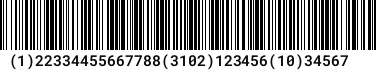
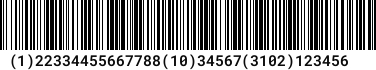
New constructor and parser.

Changed region(s): [[0.4096, 0.0, 0.7899, 0.7143], [0.8191, 0.0, 0.9654, 0.7143], [0.4388, 0.7714, 0.9362, 1.0]]

diff --git a/index.php b/index.php
@@ -22,20 +22,21 @@ require_once 'vendor/autoload.php';
 ?>
 <html>
     <body>
+        <div style="display: flex; flex-direction:column;">
         <h1>GTIN-14</h1>
         <?php
         $gtin = Gtin::create(45678);    // Item Reference
         echo $gtin->number;
-        echo "<img src='" . $gtin->getBarcodeSource() . "' />";
+        echo "<img src='" . $gtin->getBarcodeSource() . "' style='max-width:200px;' />";
         echo "<hr/>";
 
         $gtin = Gtin::create(45678, 123);    // Item Reference + Client Prefix
         echo $gtin->number;
-        echo "<img src='" . $gtin->getBarcodeSource() . "' />";
+        echo "<img src='" . $gtin->getBarcodeSource() . "' style='max-width:200px;' />";
         echo "<hr/>";
 
         $gtin->saveWithNumber('resources/gtin');
-        echo "<img src='resources/gtin.jpg' />";
+        echo "<img src='resources/gtin.jpg' style='max-width:200px;' />";
         echo "<hr/>";
         ?>
         <h2>Validation</h2>
@@ -49,11 +50,13 @@ require_once 'vendor/autoload.php';
         <?php
         var_dump(Gtin::validate(11230000456781));
         ?>
+        </div>
 
         <h1>GTIN-12 / UPC-A</h1>
         <?php
         $gtin12 = Gtin12::create(1, 61414);    // Item Reference + Client Prefix
         echo $gtin12->number;
+        echo "<br/>";
         echo "<img src='" . $gtin12->getBarcodeSource(1, 64) . "' />";
         echo "<hr/>";
 

diff --git a/src/Gs1Generator.php b/src/Gs1Generator.php
@@ -141,6 +141,12 @@ class Gs1Generator
             $gs1->serial = (int) $matches[2];
             $string = str_replace($matches[0], "", $string);
         }
+        preg_match("/([\(]?37[\)]?)([0-9]{1,6})/", $string, $matches);
+        if ($matches) {
+            $gs1->pieces = (int) $matches[2];
+            $string = str_replace($matches[0], "", $string);
+        }
+        ksort($gs1->data);
         return $gs1;
     }
 

diff --git a/README.md b/README.md
@@ -89,16 +89,22 @@ echo "<img src='path/barcode.jpg' />";
 ```php
 use Sglms\Gs1Gtin\Gs1;
 
-$gs1 = new Gs1('(01)1234(3102)123456(3302)134567(37)20(11)220801(17)221231');
-// object(Sglms\Gtin\Gs1)[3]
-// protected string 'gs1' => string '(01)1234(3102)123456(3302)134567(37)20(11)220801' (length=48)
-// public int 'gtin' => int 10000000012345
-// public int 'units' => int 20
-// public int|float 'netWeight' => float 1234.56
-// public int|float 'grossWeight' => float 1345.67
-// ...
-
+$gs1 = new Gs1([
+    1  	=> 22334455667788,
+    10 	=> 123456,
+    11 	=> 250601,
+    17 	=> 270601,
+    21 	=> 1234567890123,
+    37 	=> 20,
+    3102 	=> 123456,
+    3302 	=> 134567,
+]);
 echo "<img src='" . $gs1->getBarcodeSource() . "' />";
+```
+Or,
+
+```
+$gs1 = Gs1::parse('(01)1234(3102)123456(3302)134567(37)20(11)220801(17)221231');
 ```
 
 GS1-128: (01)1234(3102)123456(3302)134567(37)20(11)220801(17)221231
